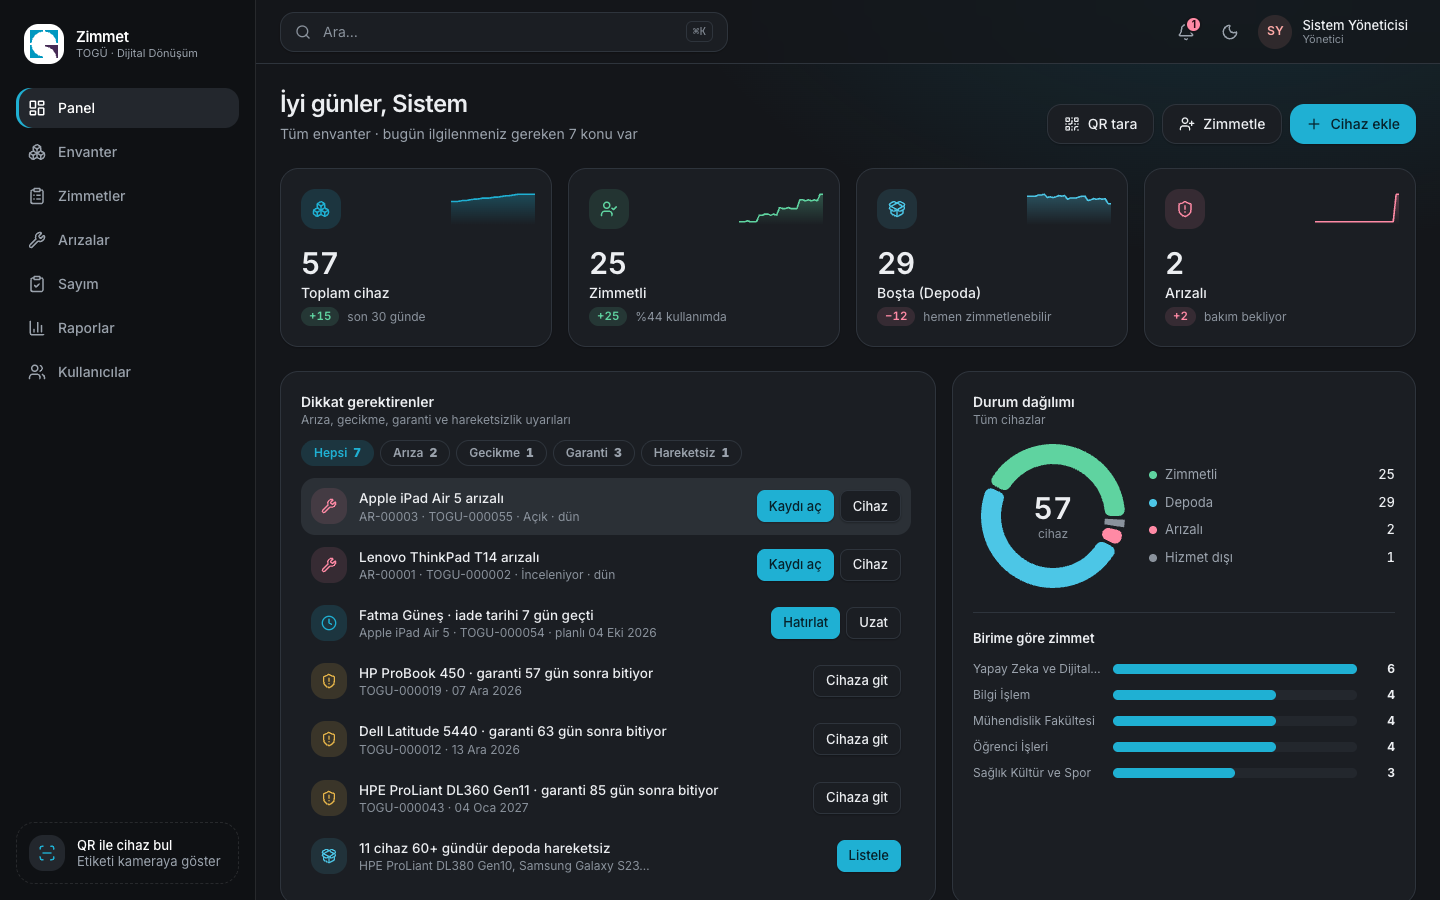
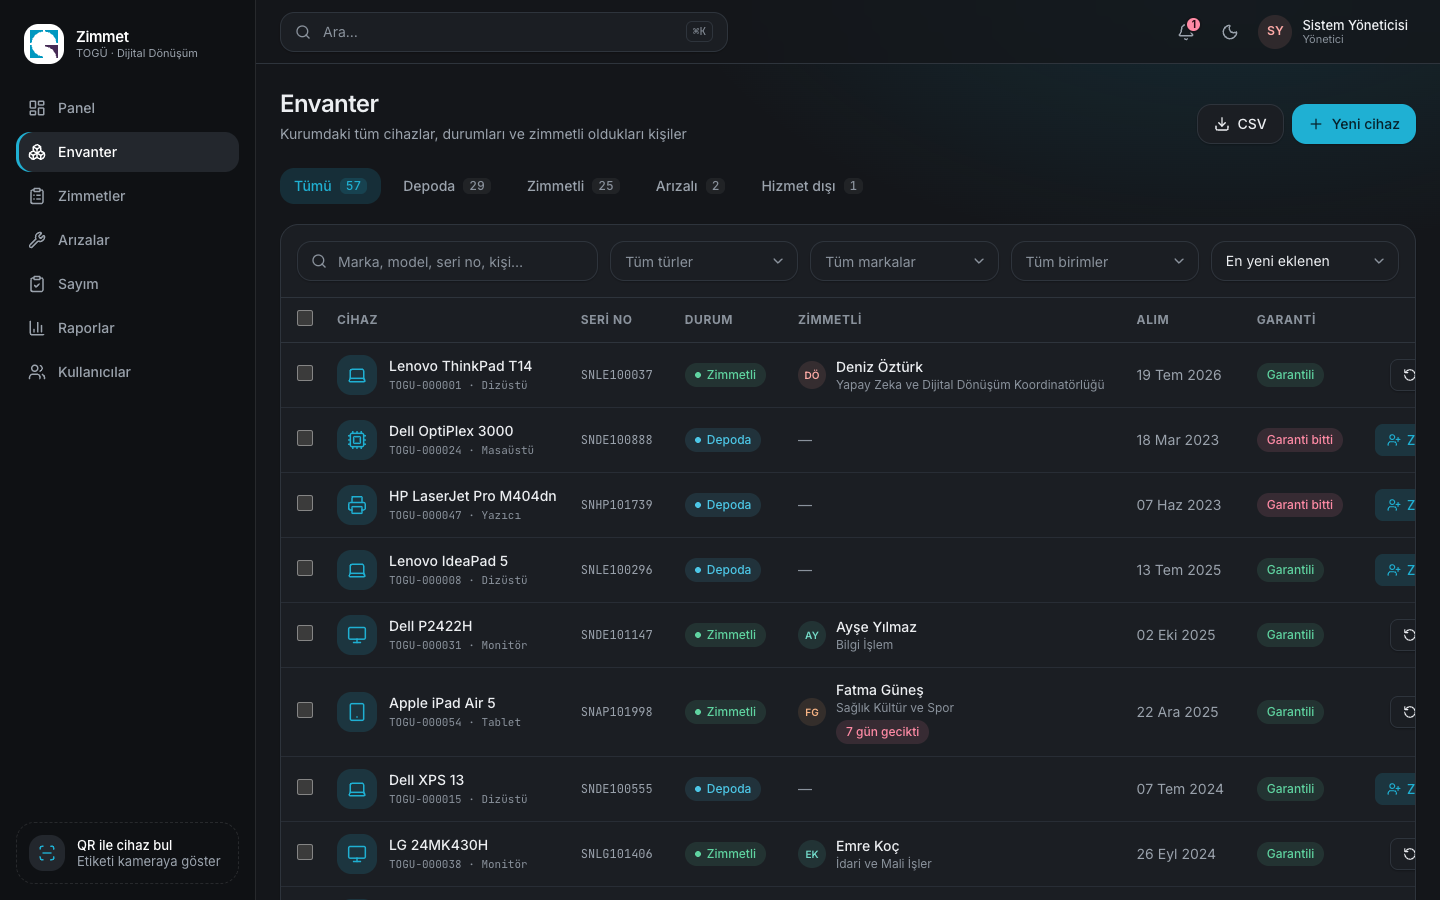
docs: koyu tema görüntüsü envanter ekranıyla değiştirildi

diff --git a/README.md b/README.md
@@ -106,7 +106,7 @@ docker compose up --build
 | ![Kullanıcılar](docs/screenshots/10-kullanicilar.png) | ![Etiketler](docs/screenshots/11-etiketler.png) |
 | **Kullanıcılar** · roller ve birimler | **QR etiketleri** · toplu yazdırma |
 | ![Komut paleti](docs/screenshots/12-komut-paleti.png) | ![Koyu tema](docs/screenshots/13-koyu-tema.png) |
-| **Komut paleti** · ⌘K | **Koyu tema** |
+| **Komut paleti** · ⌘K | **Koyu tema** · envanter |
 
 <p>
   <img src="docs/screenshots/14-mobil-envanter.png" width="260" alt="Mobil envanter" />
